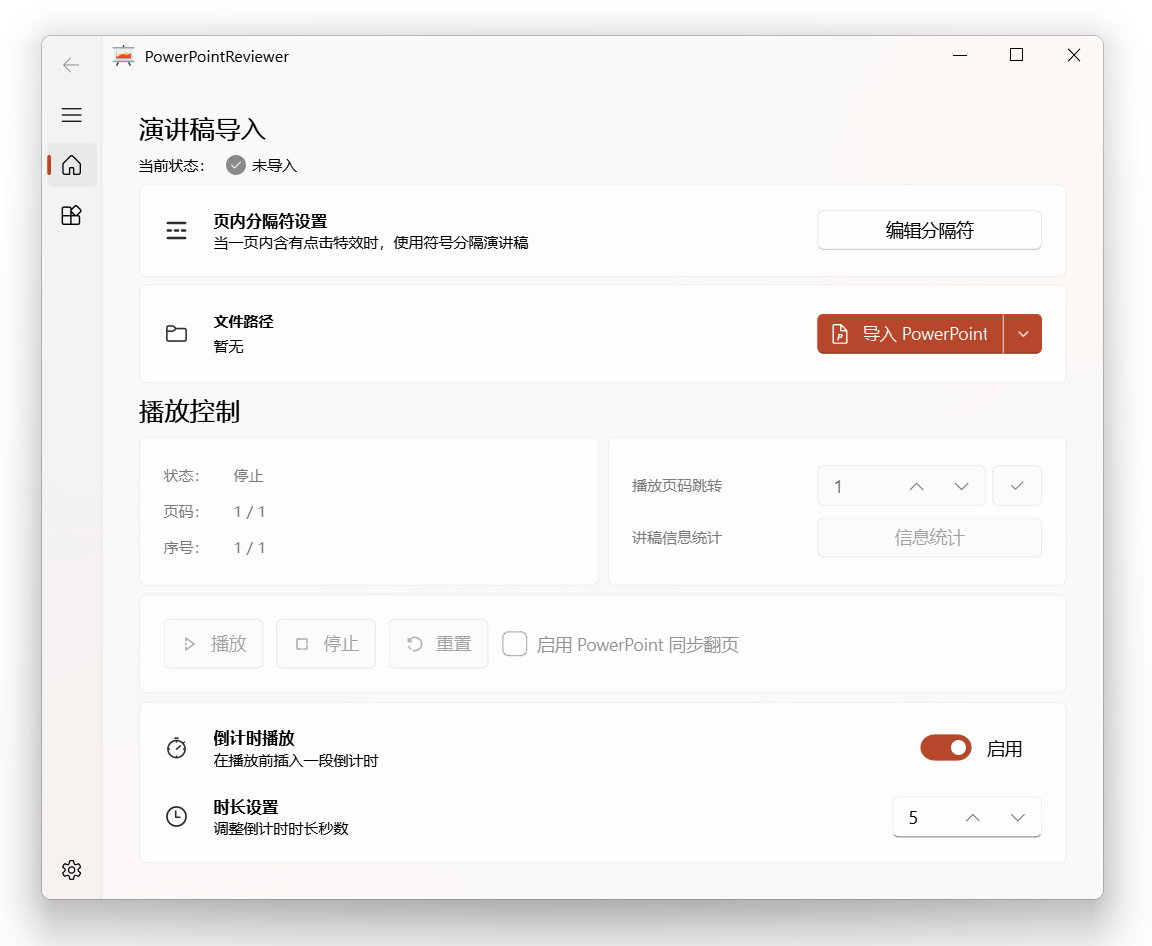
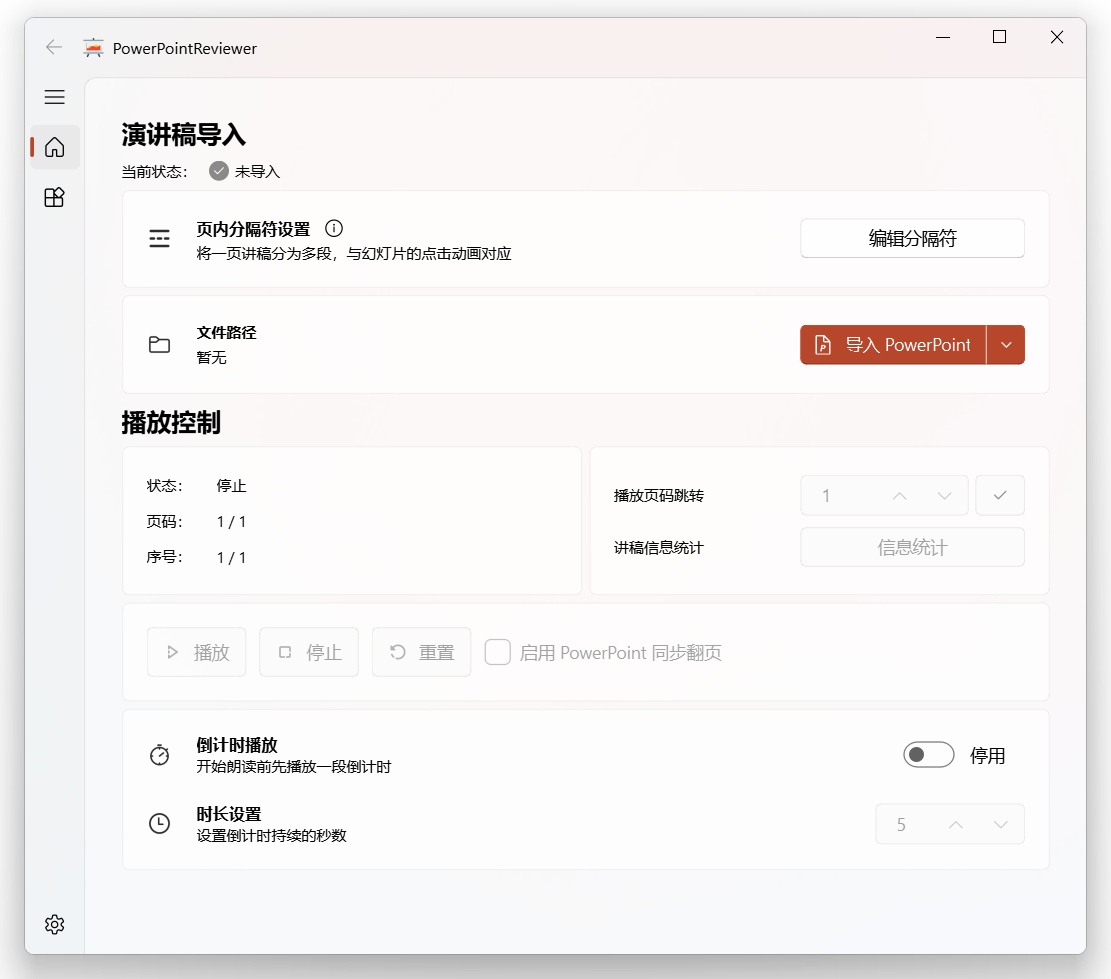
docs: update README presentation and screenshots

diff --git a/README.md b/README.md
@@ -1,8 +1,26 @@
 <div align="center">
-<!-- Title: -->
+  <img src="image/readme-banner.png" alt="演示文稿、播放按钮与语音波形组成的项目封面" width="100%">
   <h1>PowerPointReviewer</h1>
-<!-- Short description: -->
-  <p>一个 PowerPoint 讲稿朗读审阅工具</p>
+  <p>PowerPoint 讲稿朗读与审阅工具</p>
+
+  <p>
+    <a href="https://github.com/pth2000/PowerPointReviewer/releases/latest"><img src="https://img.shields.io/github/v/release/pth2000/PowerPointReviewer?style=flat&amp;label=release&amp;color=476582" alt="最新版本"></a>
+    <a href="LICENSE"><img src="https://img.shields.io/badge/license-MIT-64748b?style=flat" alt="MIT 许可证"></a>
+    <img src="https://img.shields.io/badge/platform-Windows_x64-64748b?style=flat" alt="支持 Windows 64 位">
+    <a href="https://github.com/pth2000/PowerPointReviewer/stargazers"><img src="https://img.shields.io/github/stars/pth2000/PowerPointReviewer?style=flat&amp;color=64748b" alt="GitHub Stars"></a>
+  </p>
+
+  <p>
+    <strong><a href="https://gitee.com/pth2000/PowerPointReviewer/releases">下载（Gitee）</a></strong>
+    &nbsp; · &nbsp;
+    <a href="https://github.com/pth2000/PowerPointReviewer/releases/latest">下载（GitHub）</a>
+    &nbsp; · &nbsp;
+    <a href="#使用方法">使用方法</a>
+    &nbsp; · &nbsp;
+    <a href="CHANGELOG.md">更新日志</a>
+    &nbsp; · &nbsp;
+    <a href="https://github.com/pth2000/PowerPointReviewer/issues">反馈问题</a>
+  </p>
 </div>
 
 ![截图](./image/screenshots.png)
